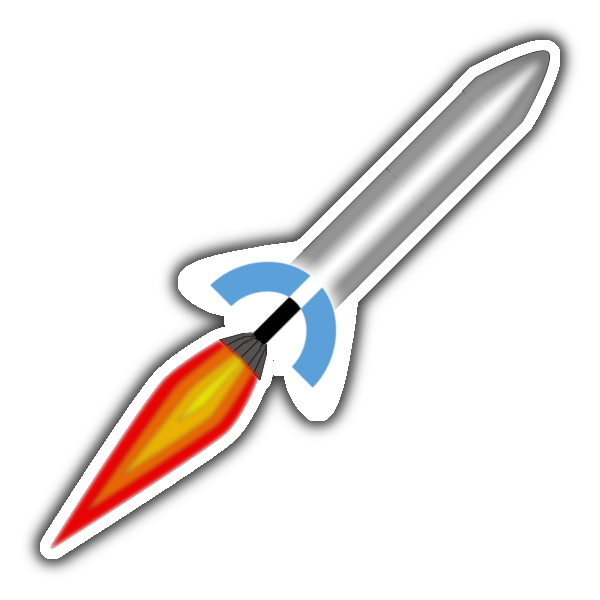
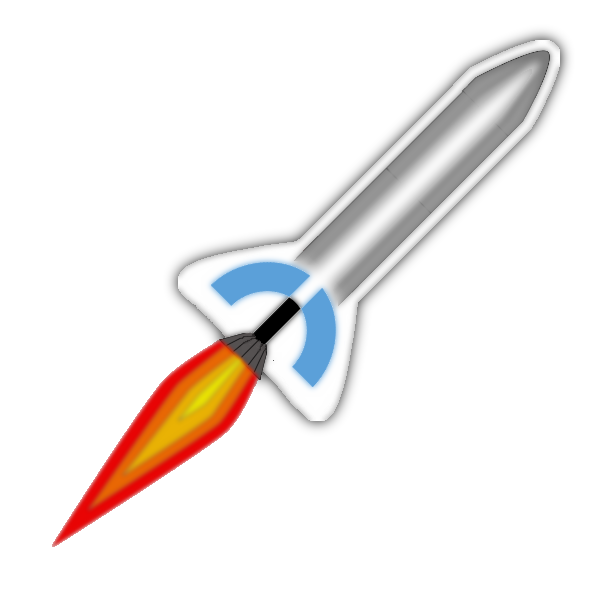
new gfx

Changed region(s): [[0.03, 0.03, 0.96, 0.96], [0.51, 0.63, 0.54, 0.66]]

diff --git a/public/index.html b/public/index.html
@@ -39,6 +39,7 @@
         var moveposx=0;
         var diry=0;
         var moveposy=0;
+        var rocketflame=0;
         function rocketMove()
         {
             rocket.style.marginLeft = (600-moveposx)+'px'; 
@@ -52,6 +53,11 @@
             else        moveposy-=1.5;
             if(moveposy>=30) diry=1;
             else if(moveposy<=0) diry=0;
+
+            if(rocketflame) rocket.style.backgroundImage = "url(rocket2.png)";
+            else  rocket.style.backgroundImage = "url(rocket.png)";
+
+            rocketflame = 1-rocketflame;
 
             setTimeout(rocketMove,50); // call doMove() in 20 msec
 
